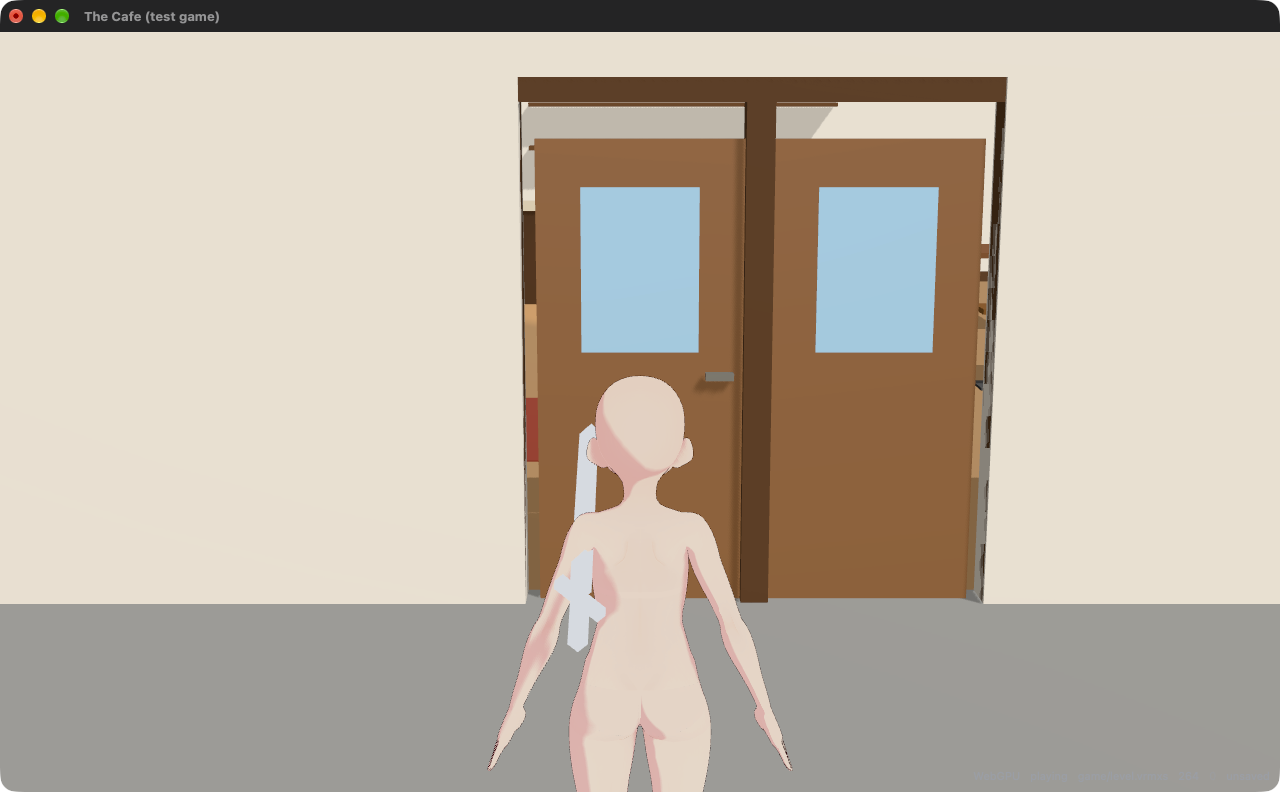
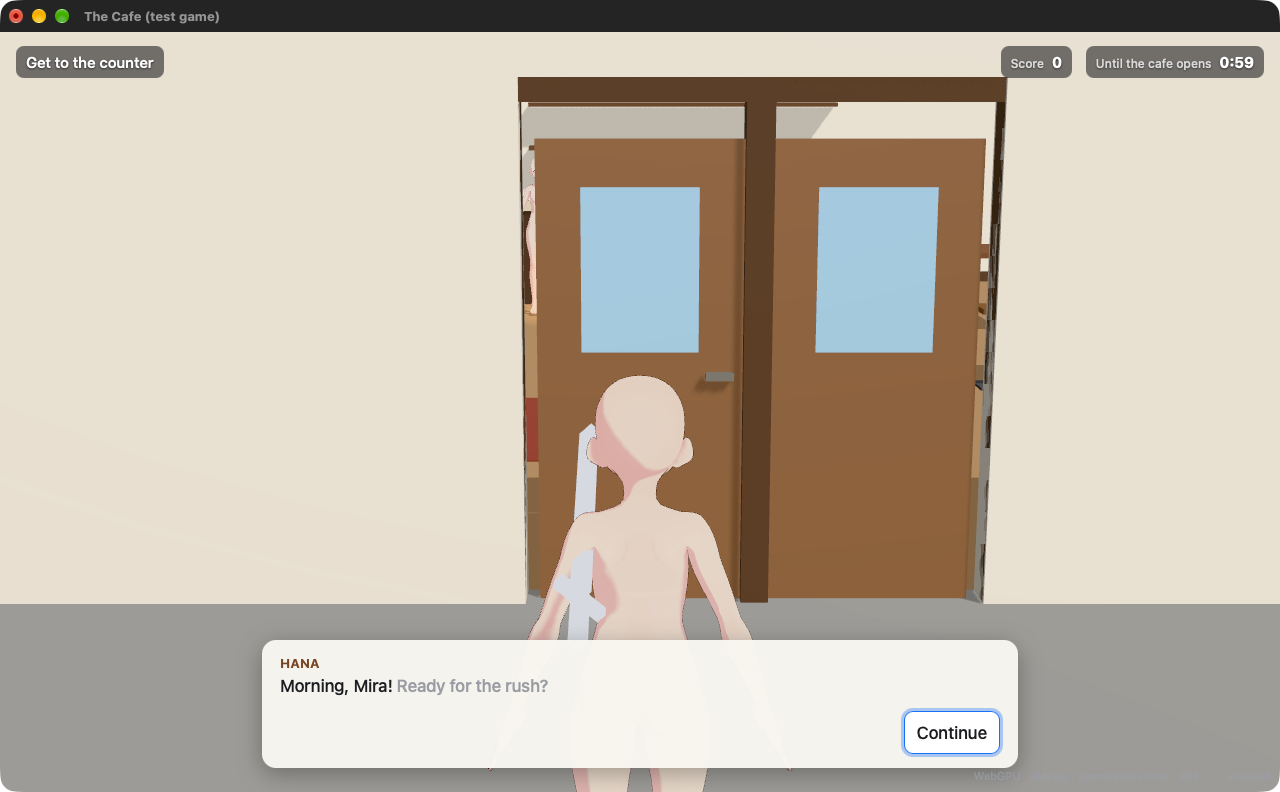
M5 W1: the wiring review: a fresh gamepad press only when a menu appears; settings write failures said; the first form's settings migrated; a prefab's Dialogue gets the service
- @vrmxg/game-ui NavPad: what is held on the first frame a root sees the pad is ignored until let go, so the A that
  opened Settings no longer presses the control Settings focuses (it reset a stored backend to Automatic).
- The settings menu's status line says a failed write from the volume and rebinding controls too (settingsNote).
- A settings file of the first form has its volume and bindings moved into the `ui` document once, and written back.
- The shared world builder judges a scene with its prefab instances flattened (hasNodeType), so a Dialogue in a prefab
  gets the dialogue service.
- Chromium 19 of 19; the Mac scenario 10 of 10 and 1 of 1 with the screen unlocked, the HUD and a conversation with a
  choice in row 3.

diff --git a/apps/game/src/settings.js b/apps/game/src/settings.js
@@ -23,10 +23,29 @@ export function defaultSettings() {
   return { format: SETTINGS_FORMAT, version: SETTINGS_VERSION, backend: 'auto', ui: null };
 }
 
+/** The volume buses the first form of this document kept (`volume`: 0 to 1 per bus), for the migration below. */
+const OLD_BUSES = ['master', 'music', 'sfx', 'voice', 'ambience'];
+
+/**
+ * The first form of this document (before @vrmxg/game-ui was wired in) kept `volume` (0 to 1 per bus) and `bindings`
+ * (the player's overrides) at the top. They become the `ui` document game-ui's GameSettings reads, once: a document that
+ * already has `ui` keeps it, and the old fields are dropped when it is written back. → the `ui` document, or null
+ * @param {any} stored
+ */
+export function migrateUi(stored) {
+  const vol = stored?.volume && typeof stored.volume === 'object' ? stored.volume : null;
+  const bind = stored?.bindings && typeof stored.bindings === 'object' && !Array.isArray(stored.bindings) ? stored.bindings : null;
+  if (!vol && !bind) return null;
+  const volumes = {};
+  for (const b of OLD_BUSES) if (vol && typeof vol[b] === 'number' && Number.isFinite(vol[b])) volumes[b] = { volume: Math.min(1, Math.max(0, vol[b])), muted: false };
+  return { version: 1, volumes, bindings: bind ? structuredClone(bind) : {} };
+}
+
 /**
  * Settings from whatever was stored: every field checked on its own, so one bad value costs only itself. A document of
  * a later version is read for the fields this version knows. Never throws.
- * @param {any} stored the parsed document, or anything else → { settings, problems }
+ * @param {any} stored the parsed document, or anything else → { settings, problems, migrated } (migrated: the first
+ *   form's volume and bindings moved into `ui`: write the document back)
  */
 export function readSettings(stored) {
   const settings = defaultSettings(), problems = [];
@@ -34,7 +53,9 @@ export function readSettings(stored) {
   if (typeof stored !== 'object' || Array.isArray(stored) || stored.format !== SETTINGS_FORMAT) return { settings, problems: ['not a settings document: the defaults are used'] };
   if (stored.backend !== undefined) { if (BACKENDS.includes(stored.backend)) settings.backend = stored.backend; else problems.push(`backend "${stored.backend}" isn't one of ${BACKENDS.join(', ')}`); }
   if (stored.ui !== undefined && stored.ui !== null) { if (typeof stored.ui === 'object' && !Array.isArray(stored.ui)) settings.ui = structuredClone(stored.ui); else problems.push('ui isn\'t a table'); }
-  return { settings, problems };
+  let migrated = false;
+  if (settings.ui === null) { const ui = migrateUi(stored); if (ui) { settings.ui = ui; migrated = true; } }
+  return { settings, problems, migrated };
 }
 
 /** The settings document's text, as it is stored. */
@@ -72,10 +93,12 @@ export class SettingsStore {
   async load() {
     try {
       const text = await this.storage.read();
-      const { settings, problems } = readSettings(text ? JSON.parse(text) : null);
+      const { settings, problems, migrated } = readSettings(text ? JSON.parse(text) : null);
       this.value = settings; this.problems = problems; this.error = null;
-    } catch (e) { this.value = defaultSettings(); this.error = `the settings couldn't be read: ${e?.message ?? e}`; }
-    this.saved = true;
+      this.saved = true;
+      // the first form's volume and bindings, moved into `ui`: written back once, so the next read finds the new form
+      if (migrated) { this.saved = false; await this.storage.write(serializeSettings(settings)).then(() => { this.saved = true; }, (e) => { this.error = `the settings couldn't be saved: ${e?.message ?? e}`; }); }
+    } catch (e) { this.value = defaultSettings(); this.error = `the settings couldn't be read: ${e?.message ?? e}`; this.saved = true; }
     this._tell();
     return this.value;
   }
@@ -101,6 +124,17 @@ export class SettingsStore {
   /** Hear every change (and every change of `saved` and `error`). → a function that stops it */
   on(fn) { this._listeners.add(fn); return () => this._listeners.delete(fn); }
   _tell() { for (const fn of [...this._listeners]) fn(this.value, this); }
+}
+
+/**
+ * What the settings menu's status line says after a change: why a write failed (the backend's, or a volume's or a
+ * rebinding's, which GameSettings writes through gameUiStore), else whether it is kept yet.
+ * @param {SettingsStore} store @param {{ error?: any } | null} [player] the player's GameSettings
+ */
+export function settingsNote(store, player = null) {
+  if (store?.error) return store.error;
+  if (player?.error) return `the volumes and controls couldn't be saved: ${player.error?.message ?? player.error}`;
+  return store?.saved ? 'Settings saved.' : 'Saving…';
 }
 
 /**

diff --git a/apps/playground/src/world.js b/apps/playground/src/world.js
@@ -2,7 +2,7 @@
 // WKWebView) and the Node runner. No DOM, no bundler aliases: whatever differs by runtime comes in as arguments
 // (how to read a file, vrmxa-core, the project's behaviours).
 import { m0Registry } from '@vrmxg/registry/m0';
-import { parse } from '@vrmxg/scene';
+import { parse, flatten } from '@vrmxg/scene';
 import { SceneTree } from '@vrmxg/core';
 import { installPhysics } from '@vrmxg/physics';
 import { installCharacters } from '@vrmxg/character';
@@ -25,6 +25,17 @@ import { installSense } from '@vrmxg/sense';
 import { installGame } from '@vrmxg/game';
 
 const text = (b) => new TextDecoder().decode(b);
+
+/**
+ * Does the scene, prefab instances flattened in, have a node of this type? (A Dialogue inside a prefab counts.) A scene
+ * whose instances can't be flattened is judged by its own nodes: instantiating it says what is wrong.
+ * @param {any} doc @param {Map<string, any>} prefabs @param {string} type
+ */
+export function hasNodeType(doc, prefabs, type) {
+  let nodes = doc.nodes ?? [];
+  try { nodes = flatten(doc, prefabs).nodes; } catch { /* reported by instantiate */ }
+  return nodes.some((n) => n.type === type);
+}
 
 /**
  * Everything a scene of the sample project needs, read once: the scene, its prefabs, the project animations.
@@ -104,7 +115,7 @@ export async function buildWorld(R, sample, { vrmxaCore, closet = null, spec = n
   const rules = game ? installGame(tree, { scene: sample.scene }) : null; // game flow (M5 W2), for a world a GameFlow plays
   // conversations with choices (M5 W3, @vrmxg/voice), after input, voice and game, and only for a scene that has a
   // Dialogue node: the service has state, which is in the world hashes, so no other scene's hashes move (AB-T-0630)
-  const dialogue = sample.doc.nodes.some((n) => n.type === 'Dialogue') ? installDialogue(tree) : null;
+  const dialogue = hasNodeType(sample.doc, sample.prefabs, 'Dialogue') ? installDialogue(tree) : null; // prefabs' too
   const save = installSave(tree, { scene: { ref: sample.scene, doc: sample.doc } }); // save games (M2 W9): flags, save files
   const wardrobe = closet && vrmxaCore ? installCloset(tree, { vrmxaCore, closet, spec, stubTextures }) : null;
   await wardrobe?.prepare(sample.doc); lap('closet');

diff --git a/apps/game/src/App.vue b/apps/game/src/App.vue
@@ -12,7 +12,7 @@ import { GameHost } from './host.js';
 import { GameSettings } from '@vrmxg/game-ui';
 import VolumeControls from '@vrmxg/game-ui/VolumeControls.vue';
 import RebindList from '@vrmxg/game-ui/RebindList.vue';
-import { SettingsStore, localStorageFor, shellStorage, memoryStorage, chosenBackend, gameUiStore } from './settings.js';
+import { SettingsStore, localStorageFor, shellStorage, memoryStorage, chosenBackend, gameUiStore, settingsNote } from './settings.js';
 import { slotRows, latestSave, PLAYER_SLOTS } from './slots.js';
 import { mayLeave } from './closing.js';
 import MenuScreen from './MenuScreen.vue';
@@ -125,7 +125,7 @@ function quitApp() { quitting = true; call('app.quit').catch((e) => { quitting =
 
 const BACKEND_CHOICES = [{ id: 'auto', label: 'Automatic' }, { id: 'webgpu', label: 'WebGPU' }, { id: 'webgl', label: 'WebGL' }];
 function setBackend(backend) { settings.value.set({ backend }).then(noteSettings); }
-function noteSettings() { const s = settings.value; ui.settingsNote = s.error ?? (s.saved ? 'Settings saved.' : 'Saving…'); }
+function noteSettings() { ui.settingsNote = settingsNote(settings.value, uiSettings.value); }
 const backendNote = computed(() => {
   if (ui.choice.from === 'query') return `Set by the page's address (renderer=${ui.choice.backend}): the setting below applies without it.`;
   if (!ui.values) return '';
@@ -172,7 +172,9 @@ onMounted(async () => {
     if (store.error) say(store.error);
     settings.value = store;
     ui.values = store.value;
-    store.on((v) => { ui.values = { ...v }; });
+    // every change and every write's outcome, the volumes' and the rebindings' too (GameSettings writes through this
+    // store): the status line says a failed write, whichever control made it
+    store.on((v) => { ui.values = { ...v }; if (ui.ready) noteSettings(); });
     // the player's volumes and bindings: W3's GameSettings over the `ui` field (a store that can't be read gives defaults)
     const playerSettings = await new GameSettings({ store: gameUiStore(store) }).load();
     if (playerSettings.loadError) say(`The volumes and controls couldn't be read: ${playerSettings.loadError}`);

diff --git a/engine/packages/game-ui/src/nav.js b/engine/packages/game-ui/src/nav.js
@@ -31,12 +31,17 @@ export function keyAction(map, code) {
 /**
  * Gamepad edges, once a frame: an action fires on the frame its button (or the left stick, past half way) goes down,
  * and a held direction repeats, after `delay` frames, every `every` frames. Counted in frames: presentation, no clock.
+ * Only a fresh press fires: what is already held on the first frame the pad is seen (a nav root that has just appeared,
+ * a pad plugged in) is noted and ignored until it is let go. So the A that opened an app's menu doesn't also press the
+ * control the menu focuses (M5 W1 review).
  */
 export class NavPad {
   constructor({ actions = UI_ACTIONS, delay = 24, every = 6 } = {}) {
     this.map = new ActionMap(actions);
     this.delay = delay; this.every = every;
     /** frames each action has been held */ this.held = new Map();
+    /** held when the pad was first seen: ignored until let go */ this.stale = new Set();
+    this.seen = false;
   }
 
   /** @param {{ gamepad: { axes: number[], buttons: number[] } | null }} state input.peek() @returns {string[]} the actions this frame */
@@ -46,9 +51,12 @@ export class NavPad {
     const sx = axes[this.map.axes.indexOf('ui_stick_x')] ?? 0, sy = axes[this.map.axes.indexOf('ui_stick_y')] ?? 0;
     if (sy > 0) down.add('ui_up'); if (sy < 0) down.add('ui_down');
     if (sx > 0) down.add('ui_right'); if (sx < 0) down.add('ui_left');
-    const fired = [];
+    const fired = [], first = !this.seen && !!state?.gamepad;
+    this.seen = !!state?.gamepad;
     for (const name of [...DIRS, 'ui_accept', 'ui_back']) {
-      if (!down.has(name)) { this.held.delete(name); continue; }
+      if (!down.has(name)) { this.held.delete(name); this.stale.delete(name); continue; }
+      if (first) this.stale.add(name);
+      if (this.stale.has(name)) continue;
       const n = (this.held.get(name) ?? 0) + 1;
       this.held.set(name, n);
       if (n === 1 || (DIRS.includes(name) && n > this.delay && (n - this.delay) % this.every === 0)) fired.push(name);

diff --git a/apps/game-mac/docs/hand-test/results/ab-t-0616/HAND-TEST-M5-GAME.report.md b/apps/game-mac/docs/hand-test/results/ab-t-0616/HAND-TEST-M5-GAME.report.md
@@ -1,21 +1,22 @@
-# The game app on the Mac (M5 W1): AppProbe scenario: run of Nov 24, 2026 at 3:21 PM
+# The game app on the Mac (M5 W1): AppProbe scenario: run of Nov 24, 2026 at 3:59 PM
 
 - **App:** The Cafe (test game) 0.1.0 (1), <repo>/apps/game-mac/build/cafe-test.app
 - **Scenario:** `<repo>/apps/game-mac/docs/hand-test/HAND-TEST-M5-GAME.scenario.md`
 - **Checklist:** `<repo>/apps/game-mac/docs/HAND-TEST-M5-GAME.md`
-- **Result:** 9 rows: 9 passed, 0 failed, 0 need you; 1 checklist rows have no steps
+- **Result:** 10 rows: 10 passed, 0 failed, 0 need you; 1 checklist rows have no steps
 
 ## Passed
 
-- **1. With no query the game draws on WebGPU, and its title menu has focus on New Game** (checklist line 15): find("id=renderer").0.name == "Renderer WebGPU"; find("id=screen").0.name == "Screen title"; find("id=load-game enabled=false").count == 1; find("role=alert").count == 0 (1419 ms)
-- **2. New Game from the keyboard plays the game: the title scene, then the level** (checklist line 16): find("id=screen").0.name == "Screen playing"; find("id=scene").0.name == "Scene game/title.vrmxs"; find("id=scene").0.name == "Scene game/level.vrmxs"; find("id=step-count").0.name != $before (5874 ms)
-- **3. Escape pauses (nothing steps while the menu is open), and Enter on Resume plays on** (checklist line 17): find("id=screen").0.name == "Screen pause"; find("id=step-count").0.name == $paused; find("id=screen").0.name == "Screen playing"; find("id=step-count").0.name != $paused (3180 ms)
-- **4. Save Game → Slot 1 from the pause menu saves, and the slot list says what the slot holds** (checklist line 18): find("id=screen").0.name == "Screen pause"; find("id=screen").0.name == "Screen save"; find("id=slot-1").0.name == "Slot 1: empty"; find("id=message").0.name matches "^Saved to Slot 1 at step [0-9]+\\.$"; find("id=slot-1").0.name matches "^Slot 1: The Cafe \\(test game\\) · level · Get to the counter, 0:[0-9]{2} · "; find("id=progress").0.name == "Nothing unsaved" (851 ms)
-- **5. The pause menu from the keyboard alone: the arrows move, Enter chooses, Escape goes back** (checklist line 19): find("id=screen").0.name == "Screen pause"; find("id=screen").0.name == "Screen settings"; find("id=screen").0.name == "Screen pause"; find("id=screen").0.name == "Screen load"; find("id=screen").0.name == "Screen pause"; find("id=screen").0.name == "Screen playing" (1324 ms)
-- **6. Quit to Title with unsaved progress asks first: Keep Playing stays, Quit Without Saving g…** (checklist line 20): find("id=progress").0.name == "Unsaved progress"; find("id=screen").0.name == "Screen pause"; find("id=question").0.name == "Quit to Title without saving?"; find("id=question").count == 0; find("id=screen").0.name == "Screen pause"; find("id=screen").0.name == "Screen title"; find("id=continue").0.name matches "^Continue: Slot 1: " (1408 ms)
-- **7. A save written from the menu loads from the menu in a fresh launch, at the step it was sa…** (checklist line 21) ◐: partly checked, not: that the app has gone isn't seen here (AppProbe can't look at an app that has quit); what a fresh launch finds is; find("id=screen").0.name == "Screen load"; find("id=message").0.name matches "^Loaded Slot 1 at step [0-9]+\\.$"; find("id=scene").0.name == "Scene game/level.vrmxs"; find("id=safe-step").0.name == $safe (8619 ms)
-- **8. Closing the window with unsaved progress asks first; Keep Playing keeps the game** (checklist line 22) ◐: partly checked, not: Close Without Saving ends the app, which AppProbe can't watch; the relaunch shows it went; find("id=progress").0.name == "Unsaved progress"; find("id=question").0.name == "Close without saving?"; find("id=question").count == 0; $kept == "Scene game/level.vrmxs"; find("id=screen").0.name == "Screen title" (6161 ms)
-- **9. The renderer chosen in Settings is kept and used the next time the game starts** (checklist line 23): find("id=screen").0.name == "Screen settings"; find("id=settings-status").0.name == "Settings saved."; find("id=renderer").0.name == "Renderer WebGL"; find("id=screen").0.name == "Screen settings"; find("id=settings-status").0.name == "Settings saved."; find("id=renderer").0.name == "Renderer WebGPU" (633 ms)
+- **1. With no query the game draws on WebGPU, and its title menu has focus on New Game** (checklist line 16): find("id=renderer").0.name == "Renderer WebGPU"; find("id=screen").0.name == "Screen title"; find("id=load-game enabled=false").count == 1; find("role=alert").count == 0 (1352 ms)
+- **2. New Game from the keyboard plays the game: the title scene, then the level** (checklist line 17): find("id=screen").0.name == "Screen playing"; find("id=scene").0.name == "Scene game/title.vrmxs"; find("id=scene").0.name == "Scene game/level.vrmxs"; find("id=step-count").0.name != $before (5833 ms)
+- **3. The HUD shows the level's goal, score and clock, and Hana's question is answered from the…** (checklist line 18): find("id=hud-goal").count == 1; find("text=Get to the counter").count >= 1; find("text=Until the cafe opens").count >= 1; find("id=dialogue-choice-ready").count == 1; find("text=Then get to the counter, quick!").count >= 1; find("id=dialogue").count == 0 (2928 ms)
+- **4. Escape pauses (nothing steps while the menu is open), and Enter on Resume plays on** (checklist line 19): find("id=screen").0.name == "Screen pause"; find("id=step-count").0.name == $paused; find("id=screen").0.name == "Screen playing"; find("id=step-count").0.name != $paused (3272 ms)
+- **5. Save Game → Slot 1 from the pause menu saves, and the slot list says what the slot holds** (checklist line 20): find("id=screen").0.name == "Screen pause"; find("id=screen").0.name == "Screen save"; find("id=slot-1").0.name == "Slot 1: empty"; find("id=message").0.name matches "^Saved to Slot 1 at step [0-9]+\\.$"; find("id=slot-1").0.name matches "^Slot 1: The Cafe \\(test game\\) · level · Get to the counter, 0:[0-9]{2} · "; find("id=progress").0.name == "Nothing unsaved" (848 ms)
+- **6. The pause menu from the keyboard alone: the arrows move, Enter chooses, Escape goes back** (checklist line 21): find("id=screen").0.name == "Screen pause"; find("id=screen").0.name == "Screen settings"; find("id=screen").0.name == "Screen pause"; find("id=screen").0.name == "Screen load"; find("id=screen").0.name == "Screen pause"; find("id=screen").0.name == "Screen playing" (1348 ms)
+- **7. Quit to Title with unsaved progress asks first: Keep Playing stays, Quit Without Saving g…** (checklist line 22): find("id=progress").0.name == "Unsaved progress"; find("id=screen").0.name == "Screen pause"; find("id=question").0.name == "Quit to Title without saving?"; find("id=question").count == 0; find("id=screen").0.name == "Screen pause"; find("id=screen").0.name == "Screen title"; find("id=continue").0.name matches "^Continue: Slot 1: " (1399 ms)
+- **8. A save written from the menu loads from the menu in a fresh launch, at the step it was sa…** (checklist line 23) ◐: partly checked, not: that the app has gone isn't seen here (AppProbe can't look at an app that has quit); what a fresh launch finds is; find("id=screen").0.name == "Screen load"; find("id=message").0.name matches "^Loaded Slot 1 at step [0-9]+\\.$"; find("id=scene").0.name == "Scene game/level.vrmxs"; find("id=safe-step").0.name == $safe (8591 ms)
+- **9. Closing the window with unsaved progress asks first; Keep Playing keeps the game** (checklist line 24) ◐: partly checked, not: Close Without Saving ends the app, which AppProbe can't watch; the relaunch shows it went; find("id=progress").0.name == "Unsaved progress"; find("id=question").0.name == "Close without saving?"; find("id=question").count == 0; $kept == "Scene game/level.vrmxs"; find("id=screen").0.name == "Screen title" (6180 ms)
+- **10. The renderer chosen in Settings is kept and used the next time the game starts** (checklist line 25): find("id=screen").0.name == "Screen settings"; find("id=settings-status").0.name == "Settings saved."; find("id=renderer").0.name == "Renderer WebGL"; find("id=screen").0.name == "Screen settings"; find("id=settings-status").0.name == "Settings saved."; find("id=renderer").0.name == "Renderer WebGPU" (835 ms)
 ## Checklist rows with no steps (1, unticked)
 
-- line 25, The game app on the Mac (M5 W1, AB-T-0616): (A person, with a real gamepad) Start pauses and resumes, the d-pad moves through every menu, A chooses, B goe
+- line 27, The game app on the Mac (M5 W1, AB-T-0616): (A person, with a real gamepad) Start pauses and resumes, the d-pad moves through every menu, A chooses, B goe

diff --git a/apps/game-mac/docs/HAND-TEST-M5-GAME.md b/apps/game-mac/docs/HAND-TEST-M5-GAME.md
@@ -15,12 +15,12 @@ Chromium (the same page); row 12 is for a person with a real one.
 
 - [x] With no query the game draws on WebGPU, and its title menu has focus on New Game. *AppProbe 2026-11-24: `#renderer` read "Renderer WebGPU", New Game had focus, Load Game was disabled with no saves; no error shown.*
 - [x] New Game from the keyboard plays the game: the title scene, then the level. *AppProbe 2026-11-24: Return on New Game; `#scene` read the title, then `game/level.vrmxs` after the title's three seconds; the step count moved.*
-- [ ] The HUD shows the level's goal, score and clock, and Hana's question is answered from the keyboard.
+- [x] The HUD shows the level's goal, score and clock, and Hana's question is answered from the keyboard. *AppProbe 2026-11-24: `#hud-goal` and the text "Get to the counter", "Until the cafe opens"; `#dialogue` up, the choice `#dialogue-choice-ready` offered, Return answered it and "Then get to the counter, quick!" followed (shot r3-1); the conversation then closed.*
 - [x] Escape pauses (nothing steps while the menu is open), and Enter on Resume plays on. *AppProbe 2026-11-24: Escape opened the pause menu with focus on Resume; the step count stayed put for 1.5 s; Return resumed and it moved again.*
-- [x] Save Game → Slot 1 from the pause menu saves, and the slot list says what the slot holds. *AppProbe 2026-11-24: "Saved to Slot 1 at step 357."; the slot read "Slot 1: The Cafe (test game) · level · Get to the counter, 0:05 · …"; `#progress` read "Nothing unsaved".*
+- [x] Save Game → Slot 1 from the pause menu saves, and the slot list says what the slot holds. *AppProbe 2026-11-24: "Saved to Slot 1 at step 531."; the slot read "Slot 1: The Cafe (test game) · level · Get to the counter, 0:05 · …"; `#progress` read "Nothing unsaved".*
 - [x] The pause menu from the keyboard alone: the arrows move, Enter chooses, Escape goes back. *AppProbe 2026-11-24: ↑↑ and Return opened Settings, Escape went back, ↓↓ and Return opened Load Game, Escape back, Escape resumed. Focus was followed through the screen each key led to, not read directly.*
 - [x] Quit to Title with unsaved progress asks first: Keep Playing stays, Quit Without Saving goes to the title. *AppProbe 2026-11-24: the question "Quit to Title without saving?"; Keep Playing kept the pause menu; Quit to Title Without Saving went to the title, which offered Continue.*
-- [x] A save written from the menu loads from the menu in a fresh launch, at the step it was saved. *AppProbe 2026-11-24, partly: the title's Quit ended the app (not watched: AppProbe can't look at an app that has quit); after the relaunch Load Game → Slot 1 said "Loaded Slot 1 at step 357." (row 4 saved at 357) and `#safe-step` read the step row 4's save held, in `game/level.vrmxs`.*
+- [x] A save written from the menu loads from the menu in a fresh launch, at the step it was saved. *AppProbe 2026-11-24, partly: the title's Quit ended the app (not watched: AppProbe can't look at an app that has quit); after the relaunch Load Game → Slot 1 said "Loaded Slot 1 at step 531." (row 5 saved at 531) and `#safe-step` read the step row 4's save held, in `game/level.vrmxs`.*
 - [x] Closing the window with unsaved progress asks first; Keep Playing keeps the game. *AppProbe 2026-11-24, partly: File › Close Window asked "Close without saving?"; Keep Playing kept the level; asked again, Close Without Saving closed it, and the relaunch came up on the title menu.*
 - [x] The renderer chosen in Settings is kept and used the next time the game starts. *AppProbe 2026-11-24: Renderer WebGL in Settings, "Settings saved." (after the shell's settings.write returned), Restart Now: "Renderer WebGL"; back to Automatic, Restart Now: "Renderer WebGPU".*
 - [x] With `renderer=webgl` in the query the game draws on WebGL, and it plays. *AppProbe 2026-11-24 (`VRMXG_QUERY=renderer=webgl`): "Renderer WebGL"; New Game reached the level and the step count moved; no error.*
@@ -34,5 +34,6 @@ Chromium (the same page); row 12 is for a person with a real one.
 | 2026-11-24 | same, after the independent review's fixes (pause refused while a game starts or loads, saves tied to their segment, the plist written safely) | 1–9, then 10 | 9 of 9 and 1 of 1 on the first run; the reports and shots in `hand-test/results/ab-t-0616/` are this run's |
 | 2026-11-24 | same, after the coordinator's review (nothing steps while any menu or question is up; saves carry and check their build; what is behind a sheet is inert; the runtime stamped with its sources; the game's own version in the app) | 1–9, then 10 | 9 of 9 and 1 of 1; the reports and shots in `hand-test/results/ab-t-0616/` are this run's |
 | 2026-11-24 | same, after the coordinator's second note (Continue and Load Game only for this build's saves; another build's save shown as such) | 1–9, then 10 | 9 of 9 and 1 of 1; the reports and shots in `hand-test/results/ab-t-0616/` are this run's. Another build's save in the slot list is checked in Chromium (`acceptance/m5/game.mjs`), not here |
-| 2026-11-24 | Rebased on main with W3 and W9; `@vrmxg/game-ui` wired in (the HUD and the dialogue overlay at the seam, its volume and rebinding controls in Settings) | 3 (new), and a re-run of 1–11 | **Not run**: the Mac's screen was locked (`CGSSessionScreenIsLocked` = Yes), and AppProbe can't read a window behind the lock. The same page passes in Chromium (`acceptance/m5/game.mjs` 18 of 18: the HUD, Hana's question answered with Enter on the overlay, the session replayed in Node). Rows 1–2 and 4–11 were last run on the build before the wiring |
+| 2026-11-24 | Rebased on main with W3 and W9; `@vrmxg/game-ui` wired in (the HUD and the dialogue overlay at the seam, its volume and rebinding controls in Settings) | 3 (new), and a re-run of 1–11 | Not run at first: the Mac's screen was locked (`CGSSessionScreenIsLocked` = Yes), and AppProbe can't read a window behind the lock |
+| 2026-11-24 | same, after the wiring review (a fresh gamepad press only in useNav; write failures in the status line; the first form's settings migrated; prefab Dialogues) | 1–10, then 11 | Screen unlocked: 10 of 10 and 1 of 1, the new row 3 included. The reports and shots in `hand-test/results/ab-t-0616/` are this run's |
 | 2026-11-24 | same | 12 (gamepad) | Not run: no gamepad |

diff --git a/apps/game/README.md b/apps/game/README.md
@@ -103,7 +103,9 @@ never written from the menu. The settings document (`vrmxg-game-settings`, versi
 `GameSettings` document with the player's volumes and bindings, which that package reads and checks) is read field by
 field, so one bad value costs only itself; a change applies at once and says "saved" only once written. `gameUiStore`
 hands `GameSettings` the `ui` field, so the backend and the player's settings are one document in one place, and a write
-that doesn't reach the store throws, so `GameSettings` knows.
+that doesn't reach the store throws, so `GameSettings` knows; the settings menu's status line says a failed write,
+whichever control made it (`settingsNote`). A document of the first form (with `volume` and `bindings` at the top) has
+them moved into `ui` once, as it is read, and written back.
 
 ## The seam for `@vrmxg/game-ui` (M5 W3)
 
@@ -124,7 +126,8 @@ overlay is mounted again for it. It is handed the player's `GameSettings`, which
 - **Conversations** are scene data (`Dialogue` nodes, `@vrmxg/voice`): the shared world builder
   (`apps/playground/src/world.js`) installs the dialogue service for a scene that has one, after input, voice and game,
   so this runtime, the playground, the editor's Play and the bundle's `play.js` all run them (part of AB-T-0630; MCP's
-  engine is the rest). A scene without one gets no service, so no other scene's hashes move. A choice reaches the
+  engine is the rest). A `Dialogue` inside a prefab counts: the scene is judged with its instances flattened
+  (`hasNodeType`). A scene without one gets no service, so no other scene's hashes move. A choice reaches the
   simulation as `input.choose('dialogue.choose', id)`, latched by the next step and kept in the recording, so a session
   with a choice replays in Node to the same hashes.
 
@@ -139,7 +142,9 @@ sample game itself is M5 W10.
 
 ## Checked
 
-- `npm test` here (37 tests; all but one need no models): the player's settings through `GameSettings` in the `ui` field; a question up while a load ends holds the game, and what was
+- `npm test` here (40 tests; all but one need no models): the player's settings through `GameSettings` in the `ui` field,
+  the first form's volume and bindings migrated once, a failed volume write said in the status line; a `Dialogue` inside
+  a prefab; a question up while a load ends holds the game, and what was
   used on it doesn't reach the game; a save from another build, or one that doesn't say, is refused; a log replays only
   on its build; a second New Game or load during one is refused (in the session and in the host); a session through scene changes, a save and a load replays to
   the same per-step hashes; Continue in a fresh session; a checkpoint slot refused; a save or a checkpoint whose write
@@ -147,11 +152,11 @@ sample game itself is M5 W10.
   finding of the independent review); the test game's whole loop (title, the level won with the door's checkpoint, the
   ending, the title again) with Hana answered by a recorded choice, replayed (needs vrmxa-core, skipped on CI); settings read field by field, written in order, a failed write said; slot rows; the gamepad (edges, repeat on
   an injected clock, a button held when first seen); `HeldGate`; the question before progress is lost.
-- `node acceptance/m5/game.mjs` (18 checks, Chromium, under the GPU lock): the test game through the menus; the HUD's
+- `node acceptance/m5/game.mjs` (19 checks, Chromium, under the GPU lock): the test game through the menus; the HUD's
   goal, score and clock; Hana's question answered with Enter on the overlay's first choice, the choice in the recording;
   the log replayed in Node to the same hash after every step (AB-R-1116); a fresh launch loading the save; every menu
   from a stand-in gamepad and from the keyboard; a key rebound in Settings kept, and on the menus' input after a
-  relaunch; the backend readout.
+  relaunch; the A that opens Settings not pressing the control it focuses; the backend readout.
 - `acceptance/m5/build.mjs --chromium` and `build-wkwebview.sh`: M5 check 1 with this app as the runtime.
 - The Mac app: `apps/game-mac/docs/HAND-TEST-M5-GAME.md`.
 

diff --git a/acceptance/README.md b/acceptance/README.md
@@ -75,14 +75,14 @@ npm run build -w @vrmxg/game-app
 node acceptance/m5/game.mjs        # Chromium, under the GPU lock: results/m5-game.json
 # the Mac app: apps/game-mac/docs/HAND-TEST-M5-GAME.md (AppProbe)
 ```
-**Passed, 15 of 15** (M5 Max, macOS 27.3 beta, Node 26, Chrome for Testing 156.0.8078.4): the title menu on WebGL when
-forced; New Game, the title scene skipped with Space (a recorded input), the level played with W held; Escape pauses and
+**Passed, 19 of 19** (M5 Max, macOS 27.3 beta, Node 26, Chrome for Testing 156.0.8078.4): the title menu on WebGL when
+forced; New Game, the title scene skipped with Space (a recorded input); the HUD (`@vrmxg/game-ui`, mounted at the app's seam) and Hana's question answered with Enter on the overlay (a recorded choice); the level played with W held; Escape pauses and
 nothing steps; Save Game → Slot 1; Load Game over unsaved play asks, then goes back to the save's step, and Tab can't leave the question; a save an earlier export made is listed as such, can't be picked, and Continue skips it; Quit to Title
 asks; **the session's log, played in Chromium through the menus with a hash of the world after every step made in the
-page, replays in Node to the same hash on every step** (583 steps, two segments: the new game, and the save it loaded);
+page, replays in Node to the same hash on every step** (over 800 steps with Hana's choice, two segments: the new game, and the save it loaded);
 a fresh launch offers Continue and loads the save at its step; every menu from a stand-in gamepad and from the keyboard;
-the renderer setting kept; with no query the page draws on WebGPU where it has it. The Mac app's AppProbe checklist
-passes 9 of 9 and 1 of 1 (WebGL forced), a save written from the menu loading in a fresh launch at its step.
+the renderer setting and a rebound key kept (the key on the menus' input after a relaunch); the A that opens Settings not pressing the control it focuses; with no query the page draws on WebGPU where it has it. The Mac app's AppProbe checklist
+passes 10 of 10 and 1 of 1 (WebGL forced; the HUD and a conversation with a choice in row 3), a save written from the menu loading in a fresh launch at its step.
 
 **Not checked:** a real gamepad (Chromium's is a stand-in through `navigator.getGamepads`; AppProbe can't press one);
 the replay in WKWebView (the Mac app's session isn't read back: Chromium's is); a session that reaches the ending in the

diff --git a/apps/game-mac/docs/hand-test/results/ab-t-0616/HAND-TEST-M5-GAME-webgl.report.md b/apps/game-mac/docs/hand-test/results/ab-t-0616/HAND-TEST-M5-GAME-webgl.report.md
@@ -1,13 +1,14 @@
-# The game app on the Mac (M5 W1): AppProbe scenario, WebGL forced: run of Nov 24, 2026 at 3:21 PM
+# The game app on the Mac (M5 W1): AppProbe scenario, WebGL forced: run of Nov 24, 2026 at 3:59 PM
 
 - **App:** The Cafe (test game) 0.1.0 (1), <repo>/apps/game-mac/build/cafe-test.app
 - **Scenario:** `<repo>/apps/game-mac/docs/hand-test/HAND-TEST-M5-GAME-webgl.scenario.md`
 - **Checklist:** `<repo>/apps/game-mac/docs/HAND-TEST-M5-GAME.md`
-- **Result:** 1 rows: 1 passed, 0 failed, 0 need you; 1 checklist rows have no steps
+- **Result:** 1 rows: 1 passed, 0 failed, 0 need you; 2 checklist rows have no steps
 
 ## Passed
 
-- **1. With `renderer=webgl` in the query the game draws on WebGL, and it plays** (checklist line 24): find("id=renderer").0.name == "Renderer WebGL"; find("id=screen").0.name == "Screen playing"; find("id=scene").0.name == "Scene game/level.vrmxs"; find("id=step-count").0.name != $before; find("role=alert").count == 0 (6474 ms)
-## Checklist rows with no steps (1, unticked)
+- **1. With `renderer=webgl` in the query the game draws on WebGL, and it plays** (checklist line 26): find("id=renderer").0.name == "Renderer WebGL"; find("id=screen").0.name == "Screen playing"; find("id=scene").0.name == "Scene game/level.vrmxs"; find("id=step-count").0.name != $before; find("role=alert").count == 0 (6470 ms)
+## Checklist rows with no steps (2, unticked)
 
-- line 25, The game app on the Mac (M5 W1, AB-T-0616): (A person, with a real gamepad) Start pauses and resumes, the d-pad moves through every menu, A chooses, B goe
+- line 18, The game app on the Mac (M5 W1, AB-T-0616): The HUD shows the level's goal, score and clock, and Hana's question is answered from the keyboard.
+- line 27, The game app on the Mac (M5 W1, AB-T-0616): (A person, with a real gamepad) Start pauses and resumes, the d-pad moves through every menu, A chooses, B goe

diff --git a/engine/packages/game-ui/README.md b/engine/packages/game-ui/README.md
@@ -136,7 +136,9 @@ press. The guard judges only controls under a nav root (the overlay, and an app 
 text fields, and only keyboard clicks: text fields type as usual, and mouse clicks, a gamepad's A and scripted clicks
 are never stopped. The gamepad is polled once a frame through
 `input.peek()`, which reads the devices without taking anything from the step; a held direction repeats after 24
-frames, every 6.
+frames, every 6. Only a fresh press acts: what is already held on the first frame a root sees the pad (a menu that has
+just opened, a pad plugged in) is ignored until let go, so the A that opened an app's menu doesn't also press the
+control the menu focuses (M5 W1).
 
 `useNav(root, { input, onBack, grab, paused, onKey })` marks its root `data-nav-root`; controls are the elements under it
 with `data-nav`. **One scope acts at a time: the outermost root around the focused control.** So the settings controls,
